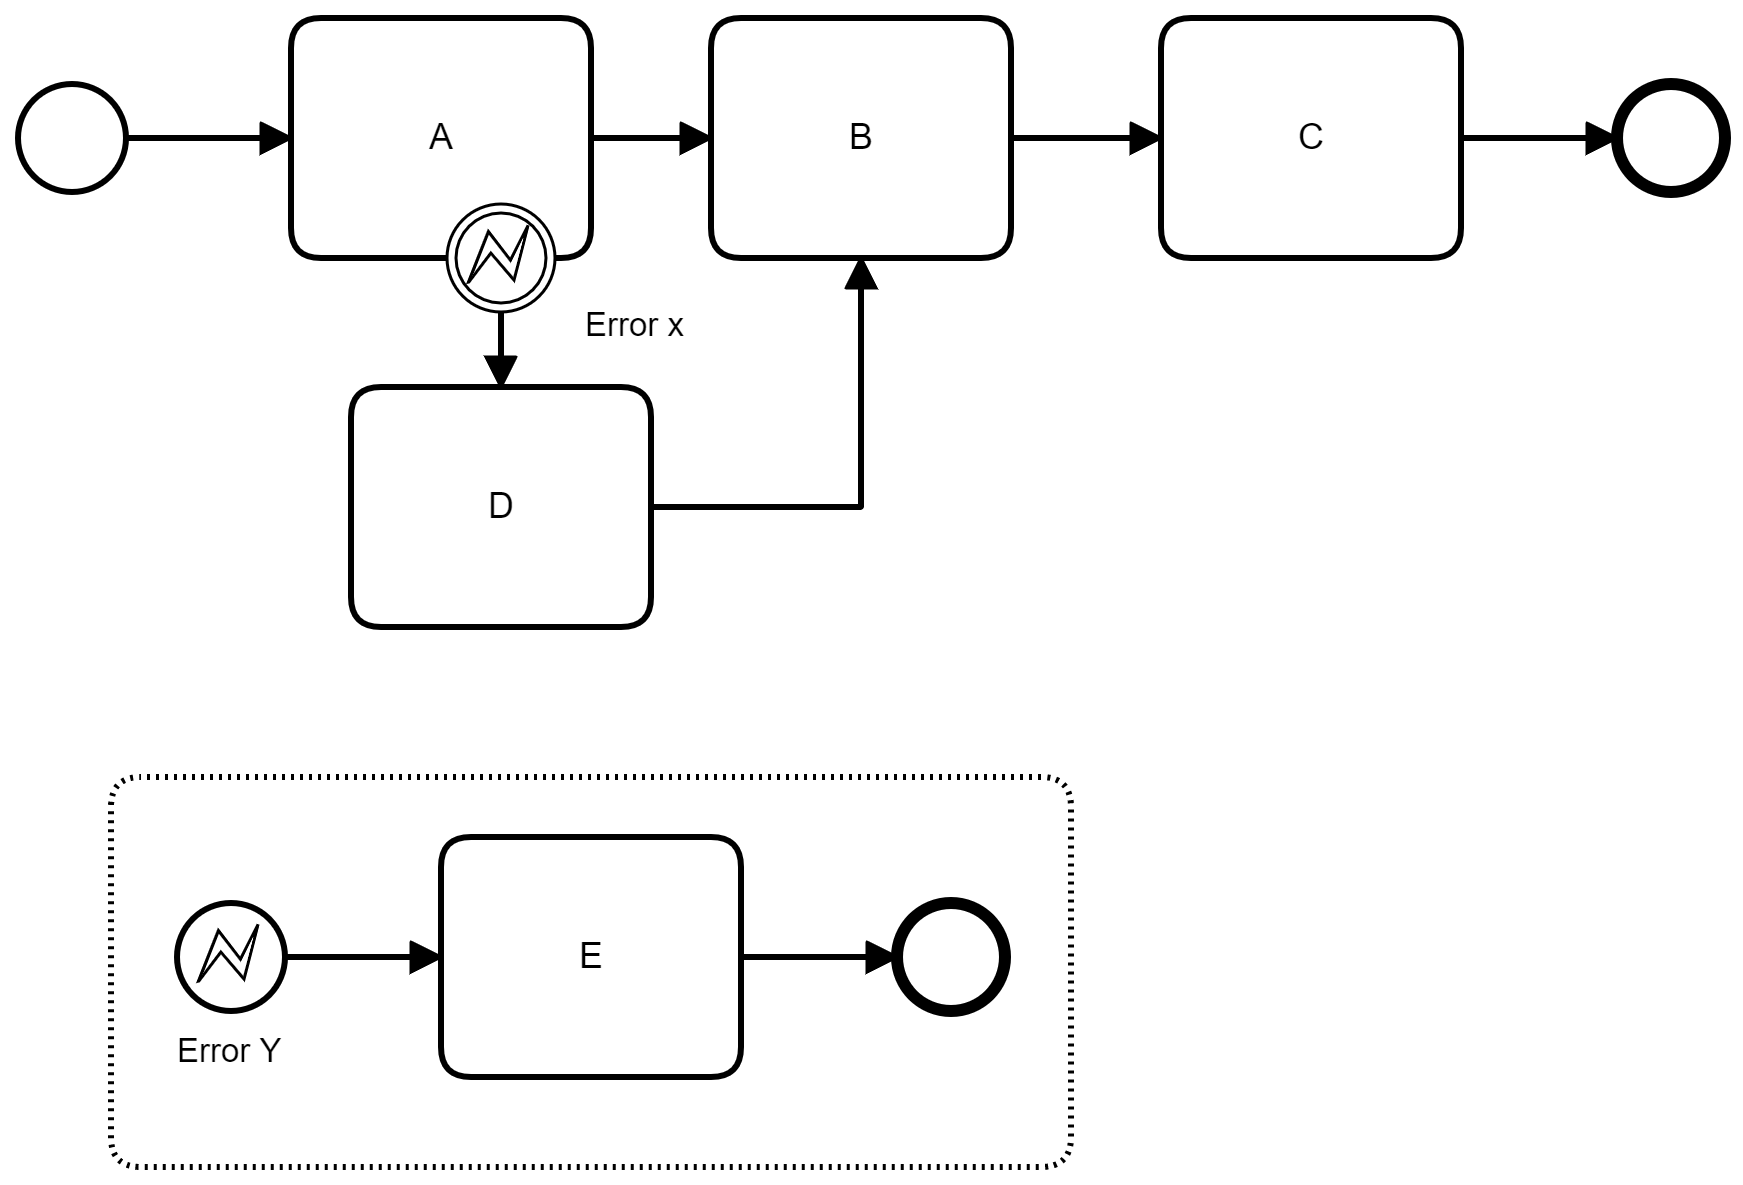
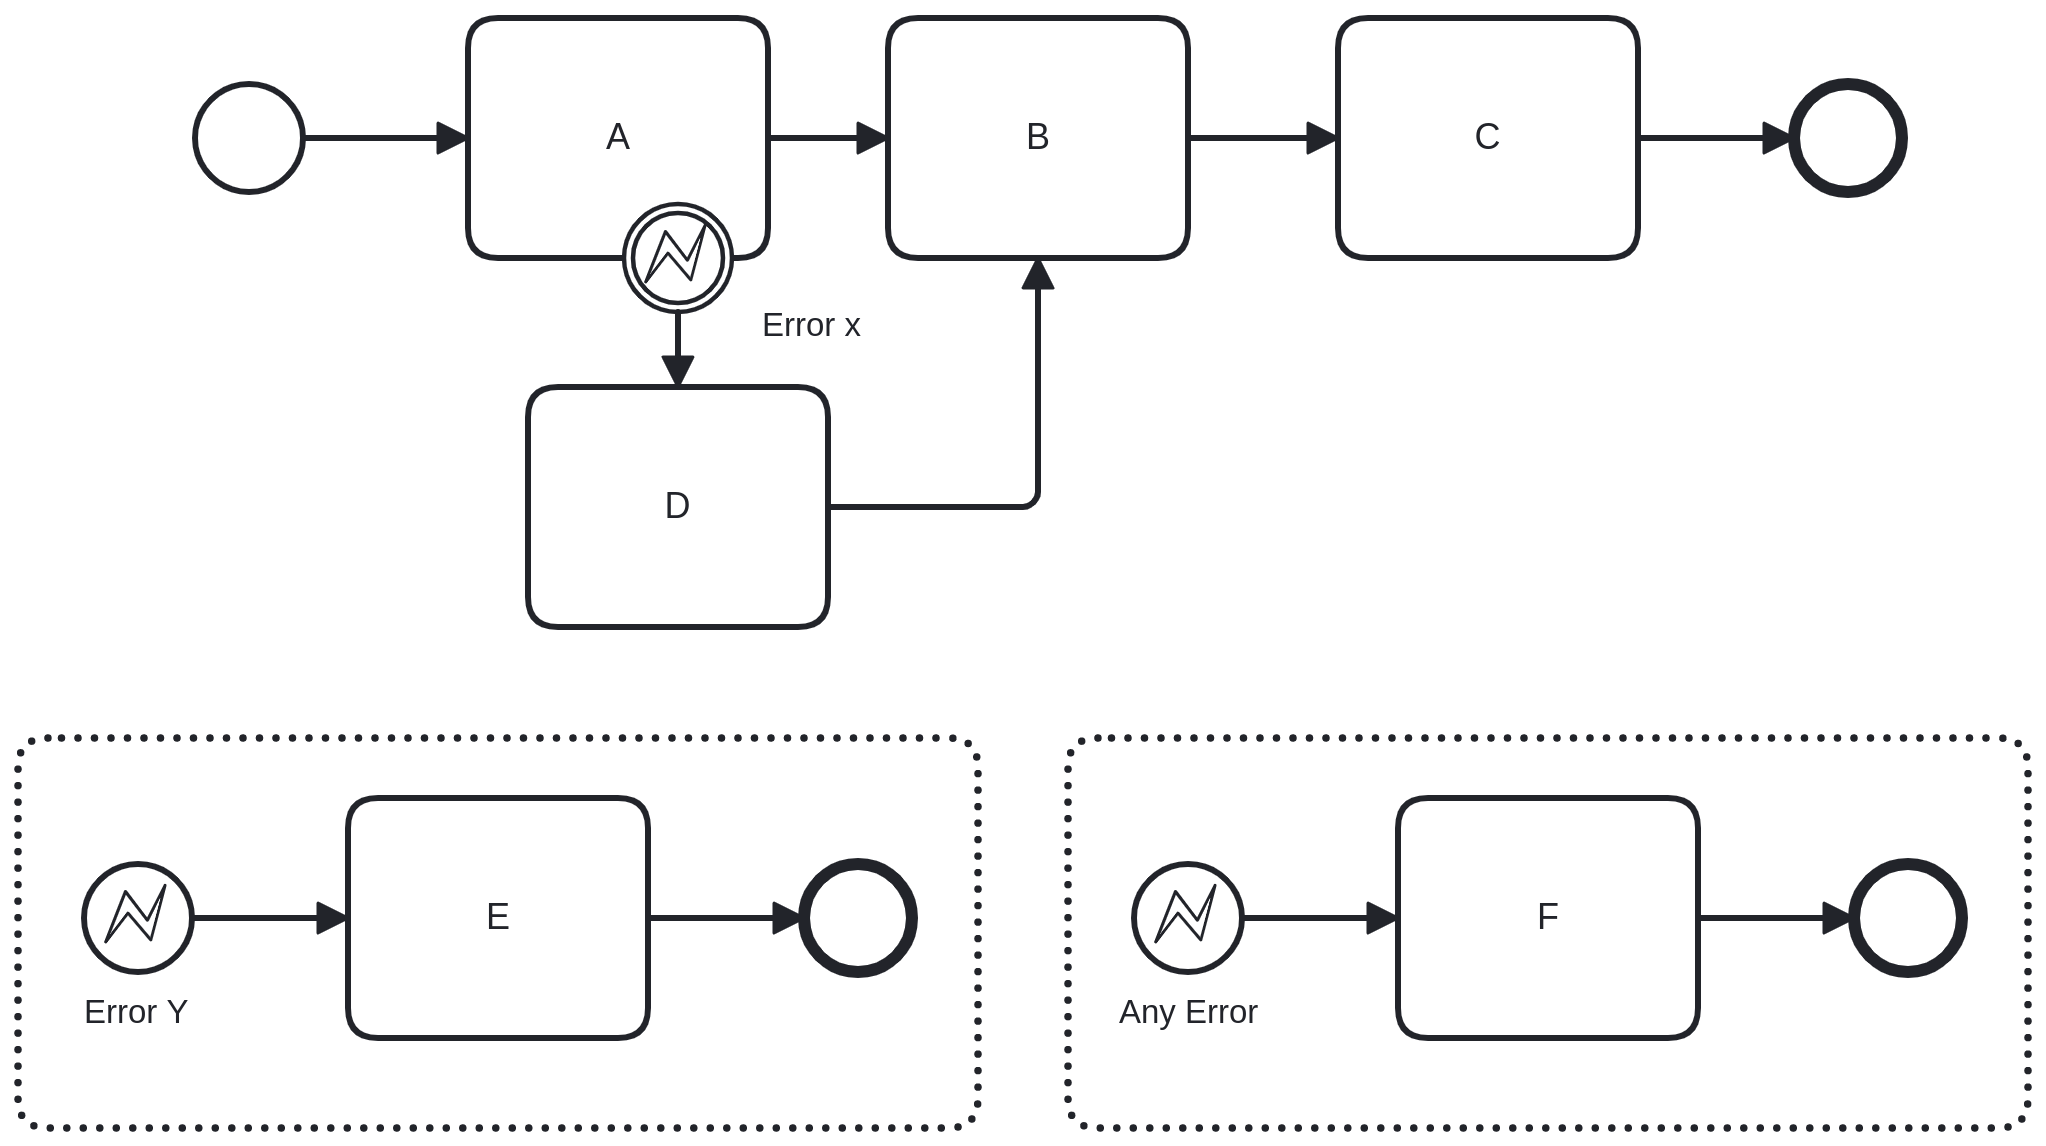
feat(error-events): expand catch-all error event examples
* Update BPMN error event example to use a Camunda Platform 8 diagram. Prevously a Camunda Platform 7 BPMN diagram was used.
* Update the BPMN error event example diagram and PNG image to contain a catch-all error event sub-process. This showcases how catch-all error events can be combined with error-specific catch events in the same scope.
* Add an XML example for a boundary catch-all error event. This example makes the difference between a catch-all and an error-specific catch error event clearer.

diff --git a/docs/components/modeler/bpmn/error-events/error-events.md b/docs/components/modeler/bpmn/error-events/error-events.md
@@ -91,10 +91,18 @@ A boundary error event:
 ```xml
 <bpmn:error id="invalid-credit-card-error" errorCode="Invalid Credit Card" />
 
-<bpmn:boundaryEvent id="invalid-credit-card" name="Invalid Credit Card" attachedToRef="collect-money">
+<bpmn:boundaryEvent id="invalid-credit-card-1" name="Invalid Credit Card" attachedToRef="collect-money">
  <bpmn:errorEventDefinition errorRef="invalid-credit-card-error" />
 </bpmn:boundaryEvent>
 
+```
+
+A boundary error event without `errorCode`:
+
+```xml
+<bpmn:boundaryEvent id="invalid-credit-card-2" name="Unknown Error" attachedToRef="collect-money">
+  <bpmn:errorEventDefinition id="catch-all-errors"/>
+</bpmn:boundaryEvent>
 ```
 
 ### References
